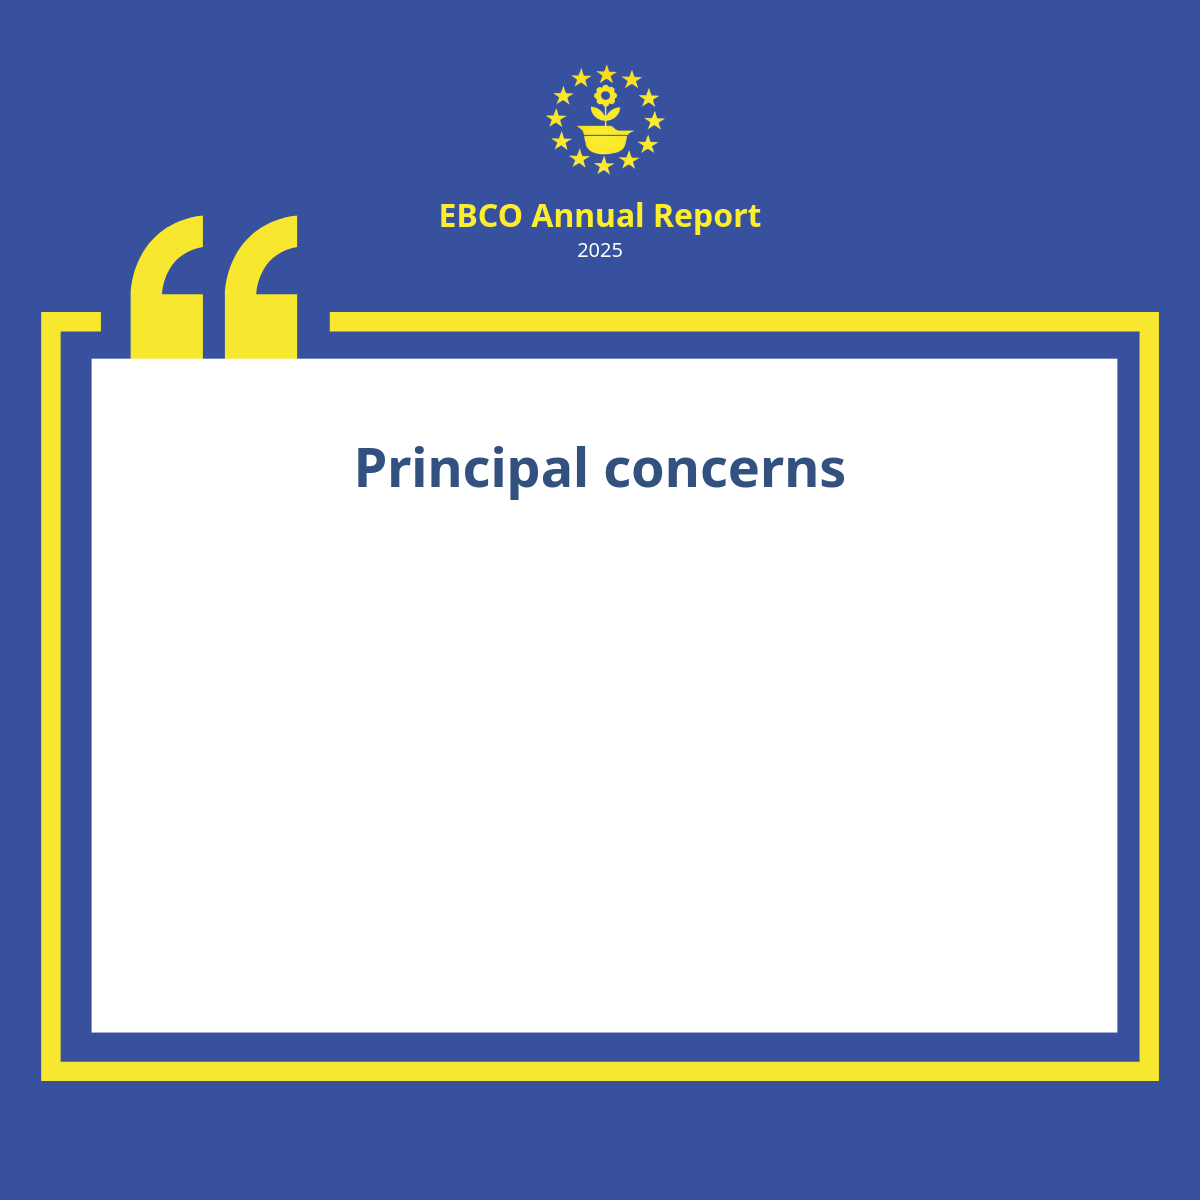
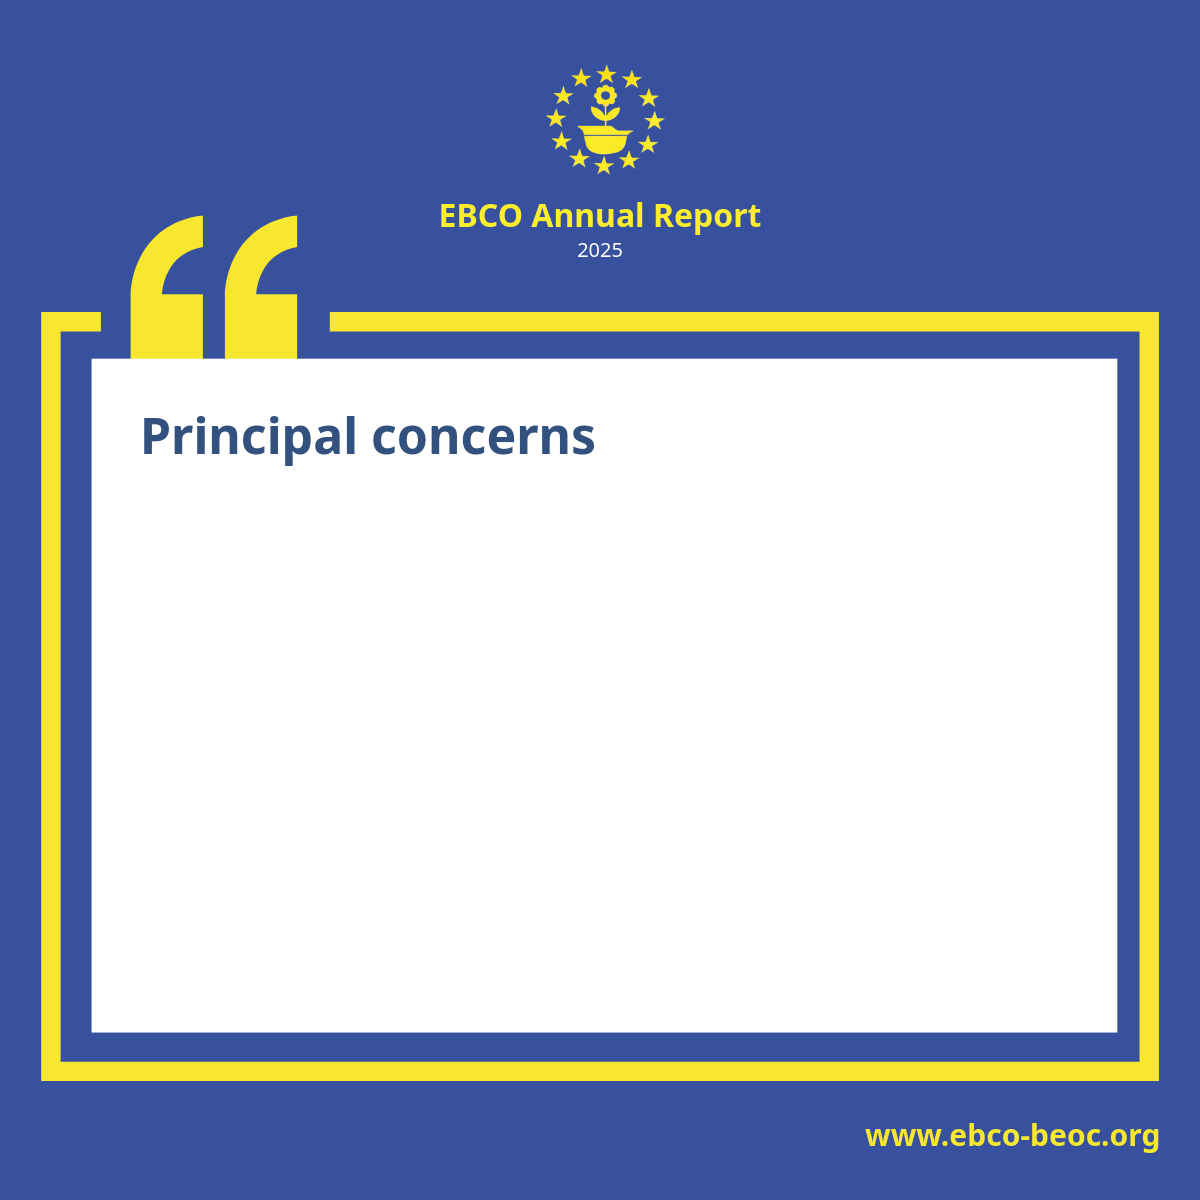
feat: add website footer to quote/concern templates

Changed region(s): [[0.1233, 0.3392, 0.7092, 0.4317], [0.7092, 0.925, 0.9867, 0.9558]]

diff --git a/quote/index.html b/quote/index.html
@@ -285,6 +285,19 @@
           x: 840,
           y: 980,
         },
+        website: {
+          font: {
+            size: [30],
+            style: '700',
+            family: 'Noto Sans',
+          },
+          containerWidth: 250,
+          containerHeight: 45,
+          lineHeight: 1.5,
+          color: '#f8e72f',
+          x: 865,
+          y: 1115,
+        },
       };
 
       const statics = {
@@ -296,6 +309,11 @@
         creditName: {
           block: {
             segments: [{ text: 'Daniele Taurino' }],
+          },
+        },
+        website: {
+          block: {
+            segments: [{ text: 'www.ebco-beoc.org' }],
           },
         },
       };

diff --git a/concerns/index.html b/concerns/index.html
@@ -270,12 +270,30 @@
           x: 140,
           y: 500,
         },
+        website: {
+          font: {
+            size: [30],
+            style: '700',
+            family: 'Noto Sans',
+          },
+          containerWidth: 250,
+          containerHeight: 45,
+          lineHeight: 1.5,
+          color: '#f8e72f',
+          x: 865,
+          y: 1115,
+        }
       };
 
       const statics = {
         headingYear: {
           block: {
             segments: [{ text: '2025' }],
+          },
+        },
+        website: {
+          block: {
+            segments: [{ text: 'www.ebco-beoc.org' }],
           },
         },
       };
